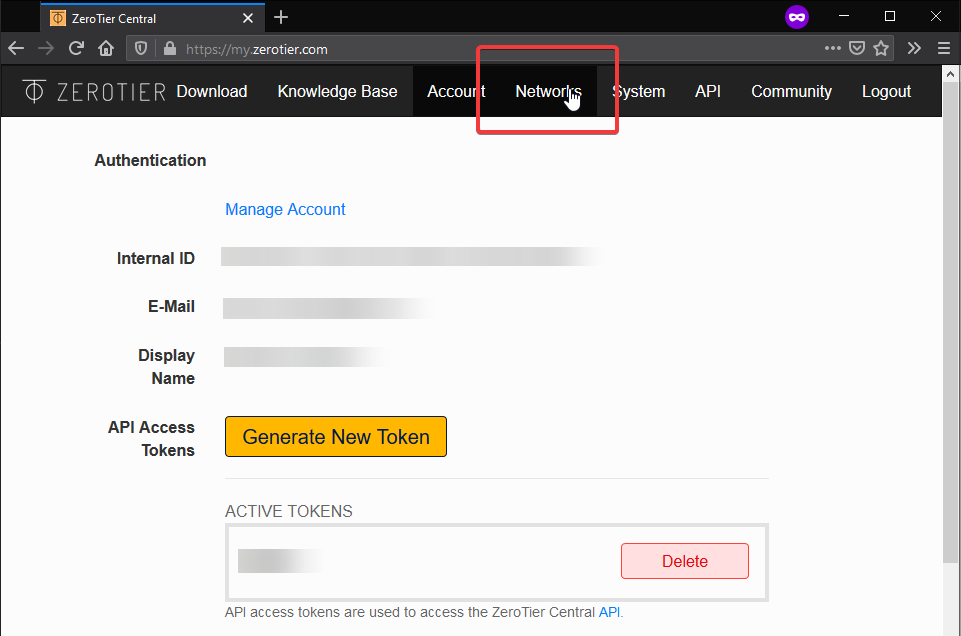
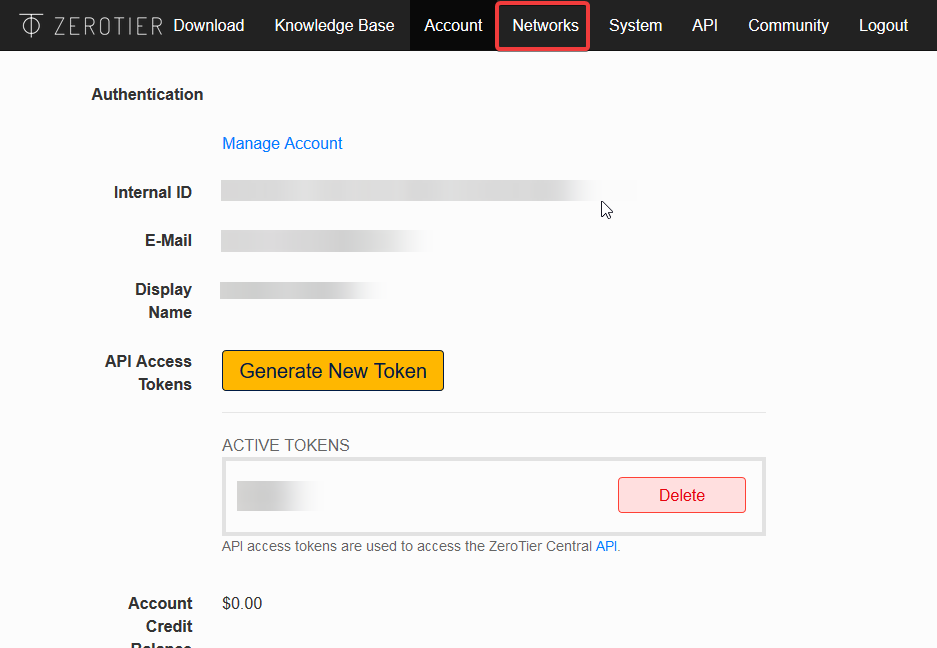
doc: hosting guide progress

Changed region(s): [[0.0, 0.0, 1.0, 1.0], [0.0928, 0.5377, 0.8356, 1.0], [0.0928, 0.239, 0.619, 0.5079]]

diff --git a/docs/tutorials/hosting_guide.rst b/docs/tutorials/hosting_guide.rst
@@ -46,25 +46,78 @@ Once installed, launch it.
 Before trying to connect to any network we need to create one.
 Only the host need to do this step.
 
-To create a ZeroTier private network you need to create a ZeroTier account `on my.zerotier.com <https://my.zerotier.com/login>`_
+To create a ZeroTier private network you need to register a ZeroTier account `on my.zerotier.com <https://my.zerotier.com/login>`_
 (click on **login** then register on the bottom)
 
-Once you account it activated, connect you to `my.zerotier.com <https://my.zerotier.com/login>`_.
+Once you account it activated, you can connect to `my.zerotier.com <https://my.zerotier.com/login>`_.
 Head up to the **Network** section(highlighted in red in the image below).
 
 .. figure:: img/hosting_guide_head_network.png
     :align: center
+    :width: 400px
 
     ZeroTier user homepage
 
-Hit 'Create a network' and go to the network settings.
+Hit 'Create a network'(see image below) and go to the network settings.
 
 .. figure:: img/hosting_guide_create_network.png
     :align: center
+    :width: 400px
 
     Network page
 
-Now that the network is created, let's quickly configure it.
+Now that the network is created, let's configure it.
+
+In the Settings section(see image below), you can change the network name to what you want.
+Make sure that the field **Access Control** is set to **PRIVATE**.
+
+.. hint::
+    If you set the Access Control to PUBLIC, anyone will be able to join without
+    your confirmation.  Its easier to setup but less secure. 
+
+.. figure:: img/hosting_guide_network_settings.png
+    :align: center
+    :width: 400px
+
+    Network settings
+
+That's all for the network setup !
+Now let's connect everyone.
+
+3. Network authorization
+^^^^^^^^^^^^^^^^^^^^^^^^
+
+Since your ZeroTier network is Private, you will need to authorize each new users
+to connect to it.
+For each user you want to add, do the following step:
+
+1. Get the client **ZeroTier id** by right clicking on the ZeroTier tray icon and click on the `Node ID`, it will copy it.
+
+.. figure:: img/hosting_guide_get_node.png
+    :align: center
+    :width: 400px
+
+    Get the zerotier client id
+
+2. Go to the network settings in the Member section and paste the Node ID into the Manualy Add Member field.
+
+.. figure:: img/hosting_guide_add_node.png
+    :align: center
+    :width: 400px
+
+    Add the client to network authorized users
+
+4. Network connection
+^^^^^^^^^^^^^^^^^^^^^
+
+To connect to the ZeroTier network, start to copy the network id.
+
+.. figure:: img/hosting_guide_get_id.png
+    :align: center
+    :width: 400px
+
+
+
 .. _port-forwarding:
 
 Using port-forwarding
@@ -108,6 +161,7 @@ To know which ports will be used, you just have to read the port in your prefere
 .. figure:: img/hosting_guide_port.png
     :align: center
     :alt: Port
+    :width: 200px
 
     Port in host settings
 In the picture below we have setup our port to **5555** so it will be:
